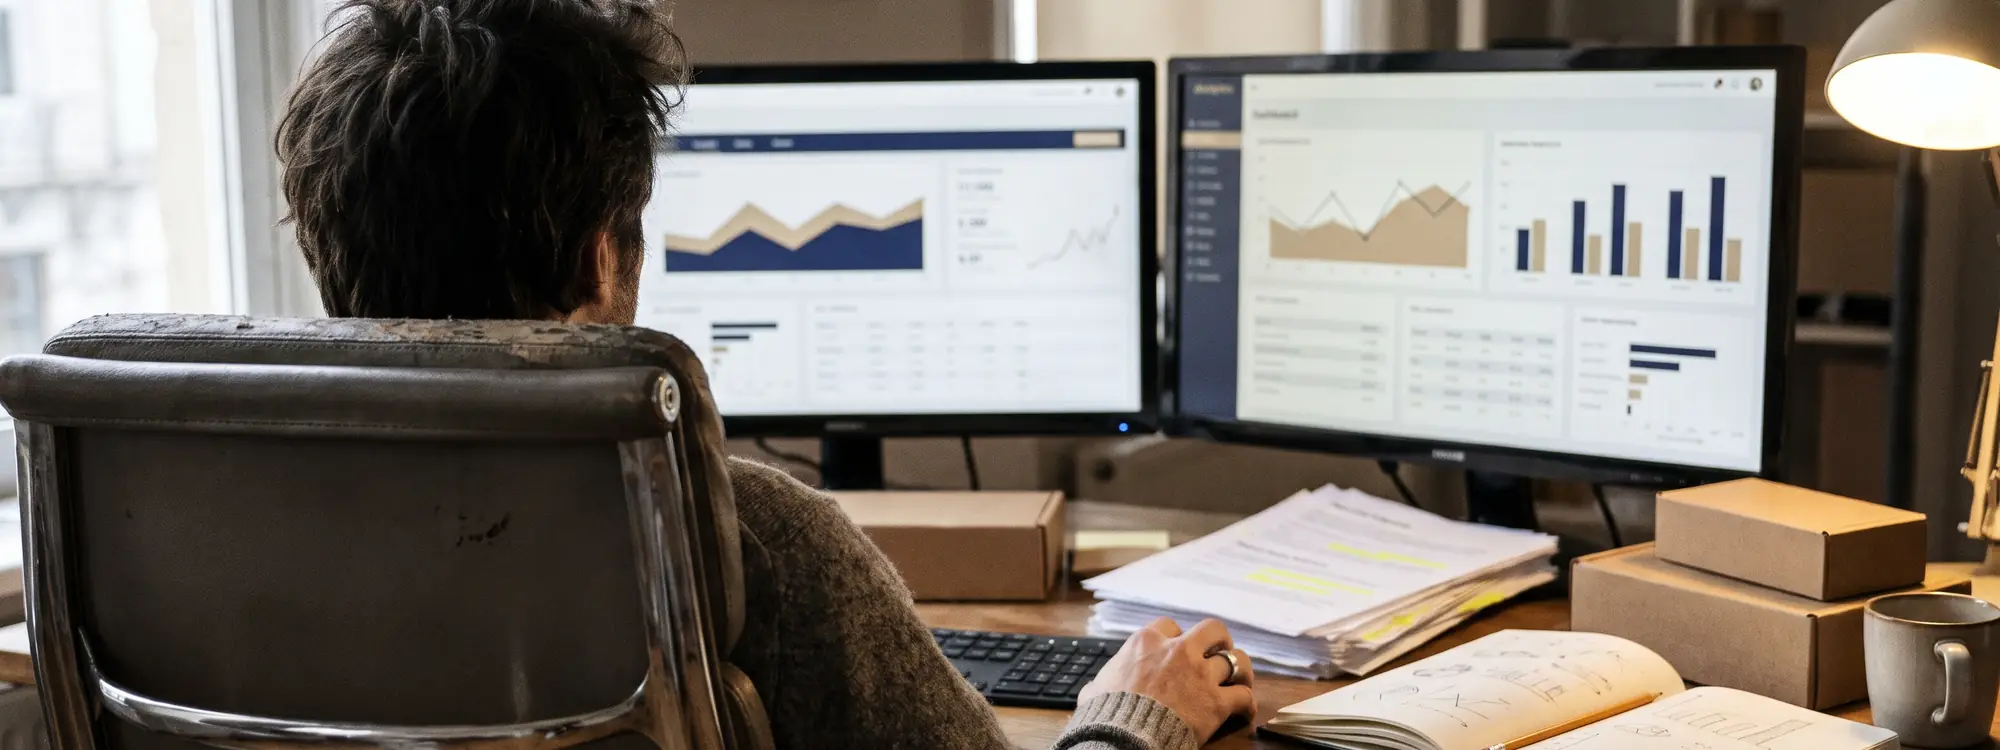
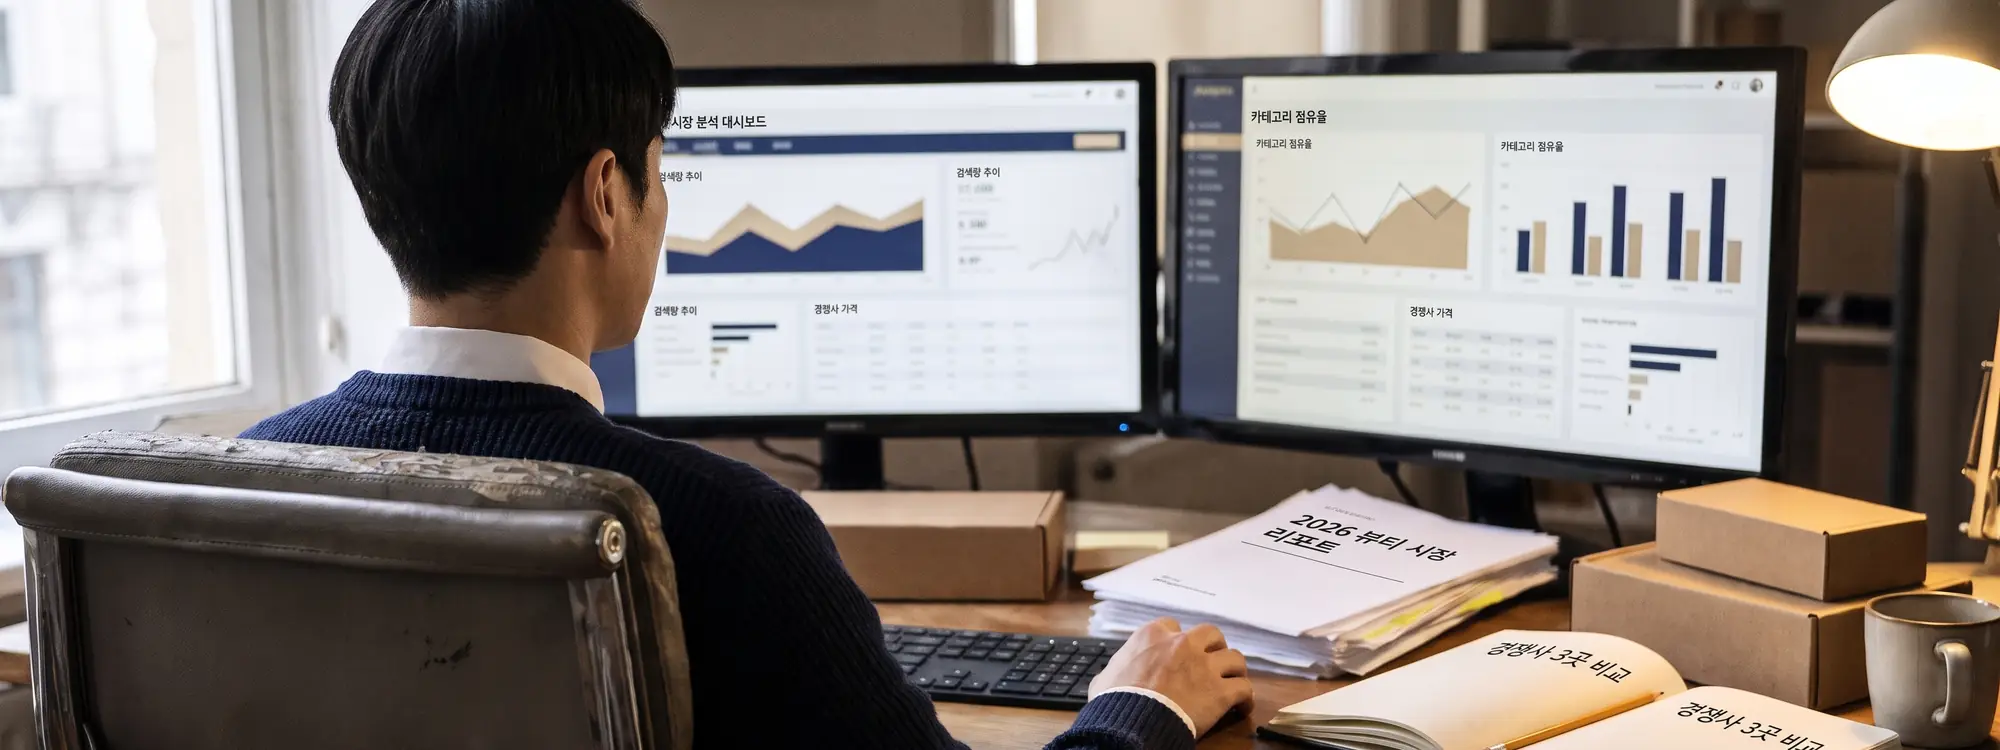
인사이트 히어로: 장면 사진 수정 — 화면·포스트잇·노트에 한글 마케팅 문구, 교육 장면 남녀 섞인 뒷모습, 시장 분석은 한국인 남성 뒷모습
- s1~s5.webp 교체(깨진 글자는 지우고 다시 씀, 보이는 얼굴 흐림)
- 사진 주소에 ?v=20261102c 를 붙여 브라우저가 옛 사진을 재사용하지 않게

diff --git a/src/routes/insight-hero.tsx b/src/routes/insight-hero.tsx
@@ -32,15 +32,17 @@ export const TITLES = [
 // 글 제목 → 흐르는 줄에 쓸 짧은 제목('—' 앞부분)
 export const shortTitle = (t: string) => t.split(' — ')[0].trim()
 
-// 뒤 배경 장면(나오는 순서): 광고주 미팅, PPT 브리핑, 회의, 교육, 시장 분석. 2000x750, 보이는 얼굴은 흐리게 처리
+// 뒤 배경 장면(나오는 순서): 광고주 미팅, PPT 브리핑, 회의, 교육, 시장 분석. 2000x750, 보이는 얼굴은 흐리게 처리.
+// 화면·포스트잇·노트에 한글 마케팅 문구(예시), 교육 장면은 남녀 섞인 뒷모습, 시장 분석은 한국인 남성 뒷모습. 깨진 글자는 지우고 다시 씀
 const SCENES = ['s1', 's2', 's3', 's4', 's5']
+const SV = '20261102c'   // 사진을 바꾸면 올린다(브라우저가 옛 사진을 기억해 재사용하지 않게)
 
 export const InsightHero = () => (
   <div class="ish" aria-hidden="true" data-ish>
     <script type="application/json" id="ishTitles" dangerouslySetInnerHTML={{ __html: JSON.stringify(TITLES).replace(/</g, '\\u003c') }} />
     <div class="ish-stage" data-ish-stage>
       <div class="ish-bg" data-ish-bg>
-        {SCENES.map((s, i) => <img class="ish-sc" src={`/static/insight-hero/${s}.webp`} alt="" width={2000} height={750} decoding="async" fetchpriority={i === 0 ? 'high' : 'auto'} data-ish-sc />)}
+        {SCENES.map((s, i) => <img class="ish-sc" src={`/static/insight-hero/${s}.webp?v=${SV}`} alt="" width={2000} height={750} decoding="async" fetchpriority={i === 0 ? 'high' : 'auto'} data-ish-sc />)}
       </div>
       <div class="ish-shade"></div>
       <div class="ish-rows" data-ish-rows></div>
